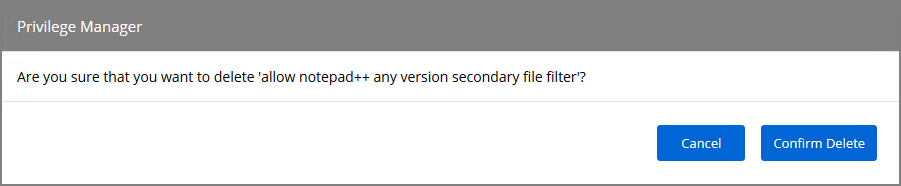
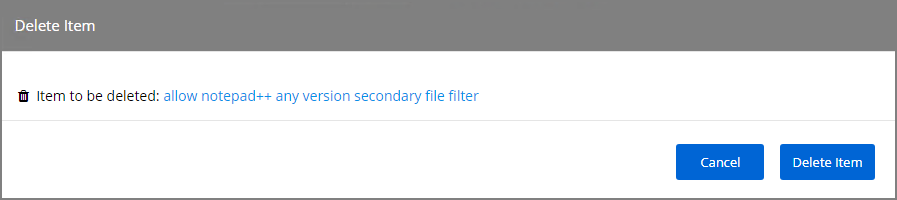
#150310: edits based on updated modals

diff --git a/app-control/operations/delete.md b/app-control/operations/delete.md
@@ -10,15 +10,15 @@ Privilege Manager detects dependencies when items are deleted and alerts the use
 * any dependent items, which block the deletion.
 * any child items, which will also be deleted.
 
-When a the Delete button is clicked on a filter, in this example the filter is called __allow notepad++ any version secondary file filter__. A request to confirm the deletion opens.
+When a the __Delete__ button is clicked on a filter, in this example the filter is called __allow notepad++ any version secondary file filter__ and no dependencies are detected, a __Delete Item__ modal opens. The user can proceed by clicking the __Delete Item__ button.
 
 ![Confirm delete](images/ops/confirm-delete-1.png)
 
-Once the delete is confirmed by clicking __Confirm Delete__ the __Item Dependency: Delete Blocked__ modal opens.
+If that filter is part of a policy and the __Delete__ button is clicked, the __Item Dependency: Delete Blocked__ modal opens.
 
 ![Item Dependency modal](images/ops/item-dependency.png)
 
-From the modal the user can see that that the delete is blocked by a dependent item. A tool tip is shown when hovering the mouse pointer over the icons.
+From the modal the user can see that the delete is blocked by a dependent item. A tool tip is shown when hovering the mouse pointer over the icons.
 
 The trash can icon informs about which item was selected to be deleted. The blocked icon informs which items are blocking the deletion.
 
